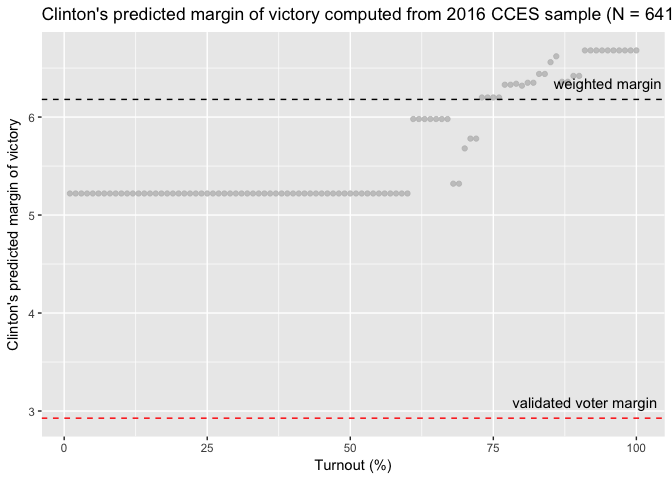
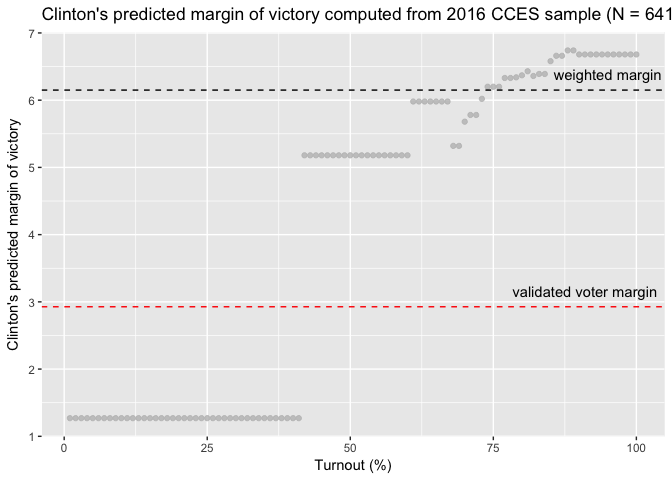
Replaced 2016 cumulative file weights with 2016 file weights.

diff --git a/national_models.md b/national_models.md
@@ -1,6 +1,6 @@
 Analysis Part I - National Models
 ================
-March 1, 2018
+March 6, 2018
 
 -   [Introduction](#introduction)
 -   [Vote Intent](#vote-intent)
@@ -123,12 +123,9 @@ The three variables I will consider are vote intent, vote history, and political
     -   I already voted (early or absentee) (**+2**)
     -   No
     -   Undecided
--   In 2012, who did you vote for in the election for President?
-    -   Barack Obama (**+1**)
-    -   Mitt Romney (**+1**)
-    -   Someone else (**+1**)
-    -   Did not vote
-    -   Don't recall
+-   Did you vote in the 2012 general election?
+    -   Yes (**+1**)
+    -   No
 -   Some people seem to follow what is going on in government or public affairs most of the time, whether there's an election or not. Others aren't that interested. Would you say you follow what is going on in government and public affairs...
     -   Most of the time (**+2**)
     -   Some of the time (**+1**)
